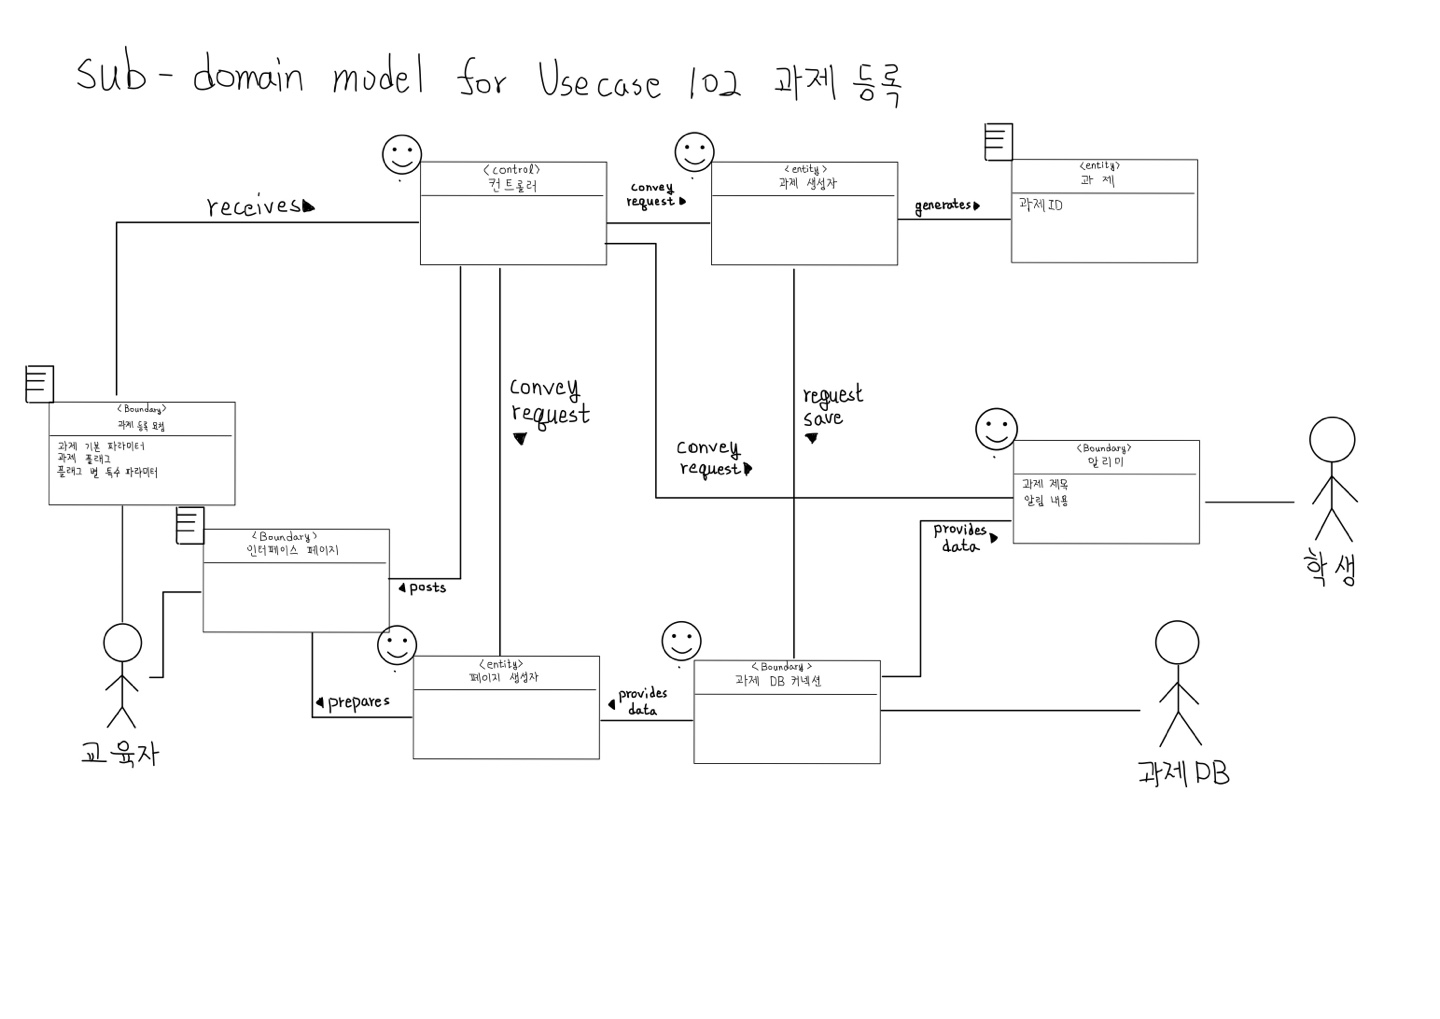
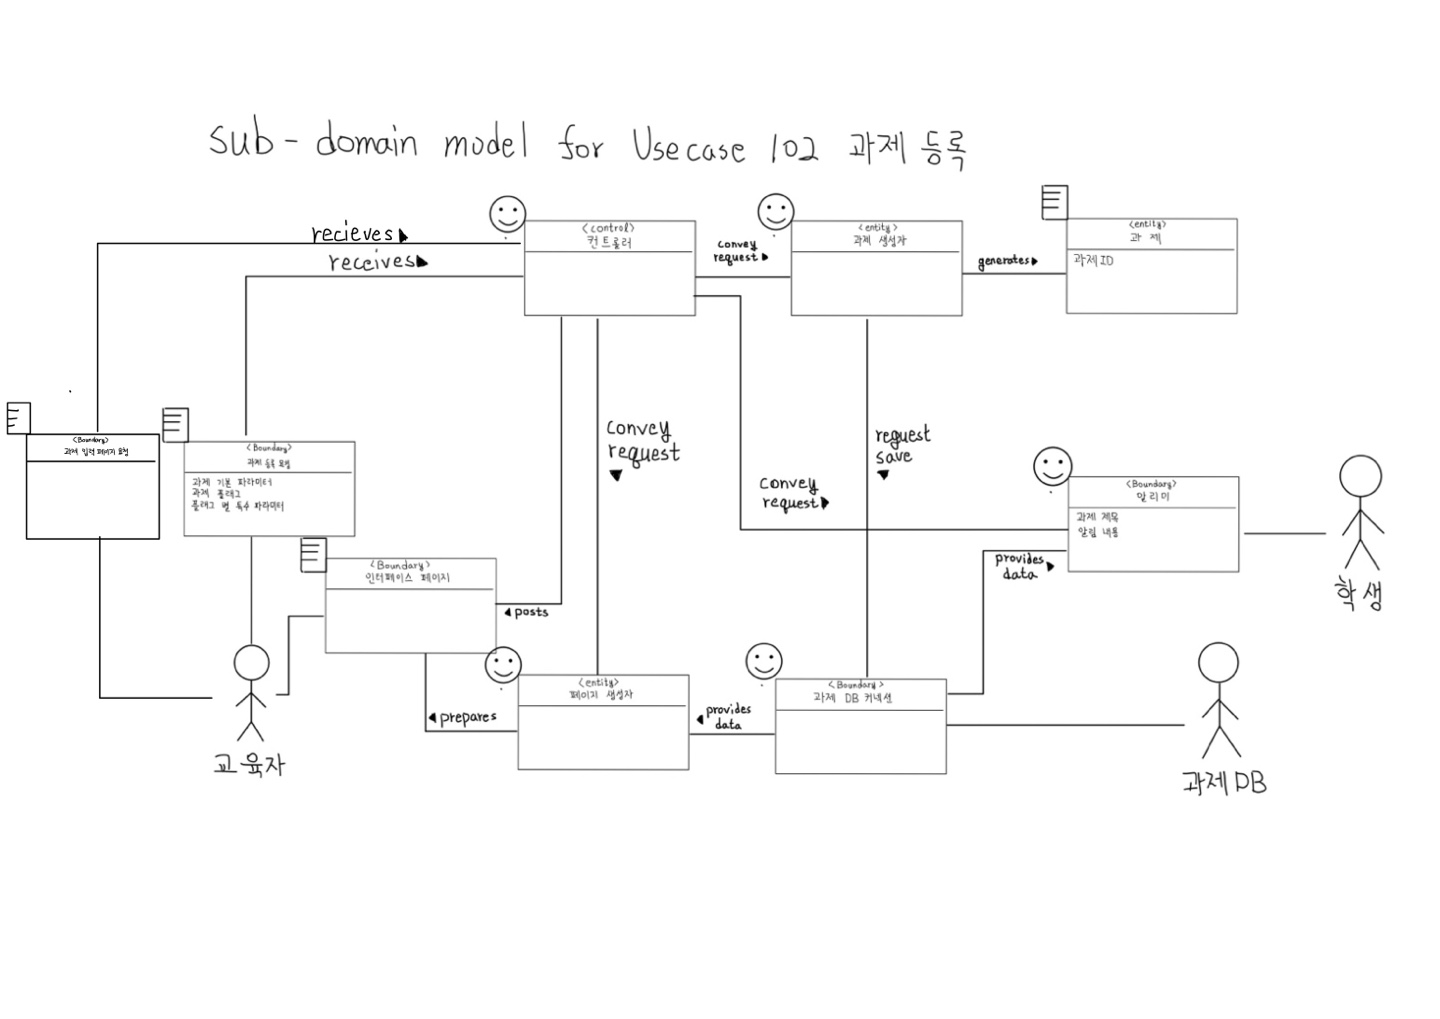
DM, UC diagram fix, OSD img fix
OSDimg ppt로 작성
UC, DM diagram 수정

diff --git a/System Design Document/Module 1/System Sequence Diagram for UC 102 - 과제 등록.md b/System Design Document/Module 1/System Sequence Diagram for UC 102 - 과제 등록.md
@@ -4,7 +4,7 @@
 
 __Version 1__
 
-![ver1](https://user-images.githubusercontent.com/51692363/117978979-65767000-b36d-11eb-8cd3-3bb58c546a42.jpg)
+![ver1](https://user-images.githubusercontent.com/51692363/118122216-81414b00-b42d-11eb-8985-5425814e6bb1.jpg)
 
 
 
@@ -14,7 +14,7 @@ __Version 1__
 
 __Version 2__
 
-![ver2](https://user-images.githubusercontent.com/51692363/117979136-8fc82d80-b36d-11eb-822e-d4592819fa1c.jpg)
+![ver2](https://user-images.githubusercontent.com/51692363/118122271-94ecb180-b42d-11eb-8119-aae1d44130ce.jpg)
 
 
 
@@ -26,7 +26,9 @@ __Version 2__
 
 **Version 3**
 
-![ver3](https://user-images.githubusercontent.com/51692363/117979193-9eaee000-b36d-11eb-8ae5-c5ae115af8ac.jpg)
+![OSD for UC102(ver3)](https://user-images.githubusercontent.com/51692363/118135541-219f6b80-b43e-11eb-86b5-d152e37ab730.JPG)
+
+
 
 쿼리를 받아오고 Controller와 Pagemaker 사이에 parsing과정이 필요할 거라 판단하여 QueryParser 모듈이 파싱 작업을 실행하게 함. ValidCheck 모듈이 권한 검사와 쿼리의 결과가 유효한지 판단함.
 

diff --git a/System Design Document/Module 1/System Sequence Diagram for UC 104 - 과제 수정.md b/System Design Document/Module 1/System Sequence Diagram for UC 104 - 과제 수정.md
@@ -26,7 +26,7 @@ __Version 2__
 
 **Version 3**
 
-![ver3](https://user-images.githubusercontent.com/51692363/117980256-bfc40080-b36e-11eb-94e6-51cced9371f3.jpg)
+![OSD for UC104(ver3)](https://user-images.githubusercontent.com/51692363/118135564-282de300-b43e-11eb-947a-d2986df6301d.JPG)
 
 UC 104는 UC 103의 sub Use Case이기에 중복되는 부분은 생략함으로 조금 더 간단히 표기.
 

diff --git a/System Design Document/Module 1/System Sequence Diagram for UC 103 - 과제 열람.md b/System Design Document/Module 1/System Sequence Diagram for UC 103 - 과제 열람.md
@@ -12,7 +12,7 @@ __Version 1__
 
 __Version 2__
 
-![ver2](https://user-images.githubusercontent.com/51692363/117980109-92775280-b36e-11eb-88d8-317b2aaeb216.JPG)
+![OSD for UC103(ver2)](https://user-images.githubusercontent.com/51692363/118135553-2401c580-b43e-11eb-9444-f40144541be4.JPG)
 
 
 
